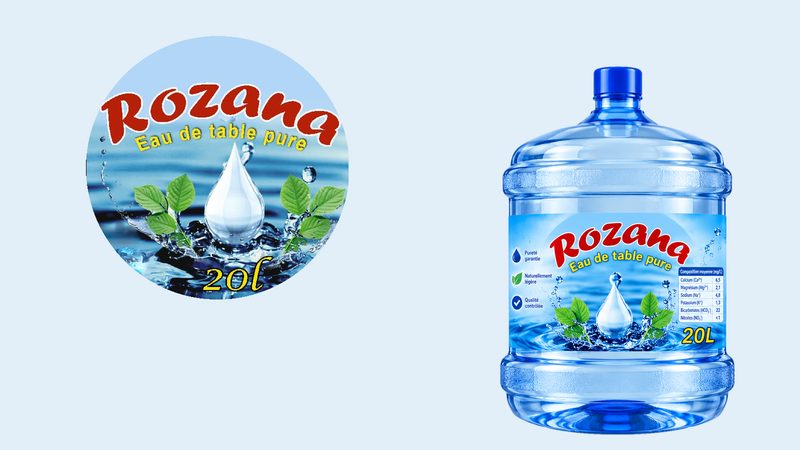
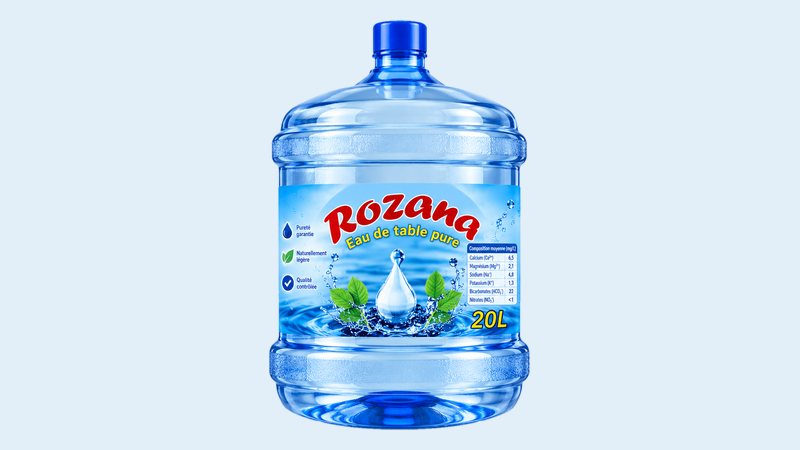
Ne garde que les bidons des deux produits comme images
Claude-Session: https://claude.ai/code/session_01EwjF6PwCm4cf5ZP2KTyith

diff --git a/index.html b/index.html
@@ -57,7 +57,7 @@ layout: default
 
         <div class="cards">
           <article class="card">
-            <img class="card-media" src="/assets/img/activites/production.jpg" alt="Bouteille d'eau Conso-Aqua et verre d'eau fraîche" width="400" height="225" loading="lazy">
+            <img class="card-media" src="/assets/img/activites/production.svg" alt="" width="400" height="225" loading="lazy">
             <h3>Production</h3>
             <p>Nous produisons de l'eau minéralisée sous les marques Conso-Aqua et Rozana, avec un contrôle qualité à chaque étape.</p>
           </article>
@@ -72,12 +72,12 @@ layout: default
             <p>Nous fabriquons des bouteilles personnalisées pour nos marques et pour les industriels qui veulent leur propre emballage.</p>
           </article>
           <article class="card">
-            <img class="card-media" src="/assets/img/activites/trading.jpg" alt="Affiche « Disponible ici » pour les points de vente" width="400" height="225" loading="lazy">
+            <img class="card-media" src="/assets/img/activites/trading.svg" alt="" width="400" height="225" loading="lazy">
             <h3>Trading agroalimentaire</h3>
             <p>Nous achetons et revendons des produits agroalimentaires pour approvisionner distributeurs, commerces et industriels.</p>
           </article>
           <article class="card">
-            <img class="card-media" src="/assets/img/activites/logistique.jpg" alt="Fourgonnette de livraison aux couleurs de Conso-Aqua" width="400" height="225" loading="lazy">
+            <img class="card-media" src="/assets/img/activites/logistique.svg" alt="" width="400" height="225" loading="lazy">
             <h3>Logistique</h3>
             <p>Nous stockons et livrons les produits jusqu'aux points de vente, pour le groupe comme pour nos clients.</p>
           </article>
@@ -99,13 +99,13 @@ layout: default
 
         <div class="brands">
           <article class="brand-card">
-            <img class="card-media" src="/assets/img/marques/conso-aqua.jpg" alt="Bidon de 20 litres et bouteille Conso-Aqua" width="800" height="450" loading="lazy">
+            <img class="card-media" src="/assets/img/marques/conso-aqua.jpg" alt="Bidon Conso-Aqua de 20 litres" width="800" height="450" loading="lazy">
             <p class="brand-name">Conso-Aqua</p>
             <p>Eau minéralisée. La fraîcheur naturelle.</p>
             <p class="signature">Une marque MAMBO GROUP</p>
           </article>
           <article class="brand-card">
-            <img class="card-media" src="/assets/img/marques/rozana.jpg" alt="Logo Rozana « Eau de table pure » et bidon de 20 litres" width="800" height="450" loading="lazy">
+            <img class="card-media" src="/assets/img/marques/rozana.jpg" alt="Bidon Rozana de 20 litres" width="800" height="450" loading="lazy">
             <p class="brand-name">Rozana</p>
             <p>Eau de table pure.</p>
             <p class="signature">Une marque MAMBO GROUP</p>
@@ -114,46 +114,8 @@ layout: default
       </div>
     </section>
 
-    <section id="terrain" class="section section-tint">
-      <div class="container">
-        <p class="label">Sur le terrain</p>
-        <h2>Nos couleurs, jusqu'au point de vente</h2>
-        <p class="intro">Véhicules de livraison, affiches chez nos distributeurs et tenues de nos agents : nos marques vont à la rencontre des familles.</p>
 
-        <div class="gallery">
-          <figure class="gallery-item gallery-tall">
-            <img src="/assets/img/terrain/degustation.jpg" alt="Jeune femme buvant une bouteille Conso-Aqua en plein air" width="800" height="600" loading="lazy">
-            <figcaption>La fraîcheur naturelle, au quotidien</figcaption>
-          </figure>
-          <figure class="gallery-item gallery-wide">
-            <img src="/assets/img/terrain/bus.jpg" alt="Bus habillé aux couleurs de Conso-Aqua et Rozana" width="1200" height="450" loading="lazy">
-            <figcaption>Le bus aux couleurs du groupe</figcaption>
-          </figure>
-          <figure class="gallery-item">
-            <img src="/assets/img/terrain/fourgonnette-rozana.jpg" alt="Fourgonnette de livraison aux couleurs de Rozana" width="800" height="600" loading="lazy">
-            <figcaption>Livraison à domicile et en point de vente</figcaption>
-          </figure>
-          <figure class="gallery-item">
-            <img src="/assets/img/terrain/affiche.jpg" alt="Affiche « Disponible ici » présentant les deux eaux" width="800" height="600" loading="lazy">
-            <figcaption>Chez nos distributeurs agréés</figcaption>
-          </figure>
-          <figure class="gallery-item">
-            <img src="/assets/img/terrain/polo.jpg" alt="Polo blanc des agents, logo MAMBO GROUP et Conso-Aqua" width="800" height="600" loading="lazy">
-            <figcaption>Le polo de nos agents</figcaption>
-          </figure>
-          <figure class="gallery-item">
-            <img src="/assets/img/terrain/gilet.jpg" alt="Gilet de distribution Rozana" width="800" height="600" loading="lazy">
-            <figcaption>Le gilet de distribution</figcaption>
-          </figure>
-          <figure class="gallery-item">
-            <img src="/assets/img/terrain/tshirt.jpg" alt="T-shirt promotionnel avec les bidons Conso-Aqua et Rozana" width="800" height="600" loading="lazy">
-            <figcaption>Le t-shirt des animations</figcaption>
-          </figure>
-        </div>
-      </div>
-    </section>
-
-    <section id="actualites" class="section">
+    <section id="actualites" class="section section-tint">
       <div class="container">
         <div class="section-head">
           <div>

diff --git a/assets/css/style.css b/assets/css/style.css
@@ -447,44 +447,3 @@ a { color: var(--vert-mambo); }
   .js .reveal { opacity: 1; transform: none; }
 }
 
-/* Galerie « Sur le terrain » */
-.gallery {
-  display: grid;
-  grid-template-columns: repeat(3, 1fr);
-  gap: 24px;
-  margin-top: 40px;
-}
-.gallery-item {
-  margin: 0;
-  position: relative;
-  border-radius: var(--radius);
-  overflow: hidden;
-  background: var(--blanc);
-  aspect-ratio: 4 / 3;
-  transition: transform .25s, box-shadow .25s;
-}
-.gallery-wide { grid-column: span 2; aspect-ratio: auto; }
-.gallery-tall { grid-row: span 2; aspect-ratio: auto; }
-.gallery-item img {
-  width: 100%; height: 100%;
-  object-fit: cover;
-  transition: transform .6s;
-}
-.gallery-item figcaption {
-  position: absolute; left: 0; right: 0; bottom: 0;
-  padding: 28px 16px 12px;
-  background: linear-gradient(transparent, rgba(30,38,34,.85));
-  color: var(--blanc);
-  font-family: var(--font-titre); font-weight: 600; font-size: .95rem;
-}
-.gallery-item:hover { transform: translateY(-6px); box-shadow: 0 14px 30px rgba(30,38,34,.12); }
-.gallery-item:hover img { transform: scale(1.06); }
-
-@media (max-width: 860px) {
-  .gallery { grid-template-columns: 1fr 1fr; gap: 16px; }
-  .gallery-tall { grid-row: auto; aspect-ratio: 4 / 3; }
-}
-@media (max-width: 560px) {
-  .gallery { grid-template-columns: 1fr; }
-  .gallery-wide { grid-column: auto; aspect-ratio: 8 / 3; }
-}

diff --git a/assets/js/main.js b/assets/js/main.js
@@ -28,7 +28,7 @@ window.addEventListener('scroll', ombre, { passive: true });
 if ('IntersectionObserver' in window) {
   document.documentElement.classList.add('js');
   const blocs = document.querySelectorAll(
-    '.section .label, .section h2, .section .intro, .value, .card, .brand-card, .news-card, .gallery-item, .contact-list li, .section-head .link-arrow'
+    '.section .label, .section h2, .section .intro, .value, .card, .brand-card, .news-card, .contact-list li, .section-head .link-arrow'
   );
   const observer = new IntersectionObserver((entrees) => {
     entrees.forEach((entree) => {
